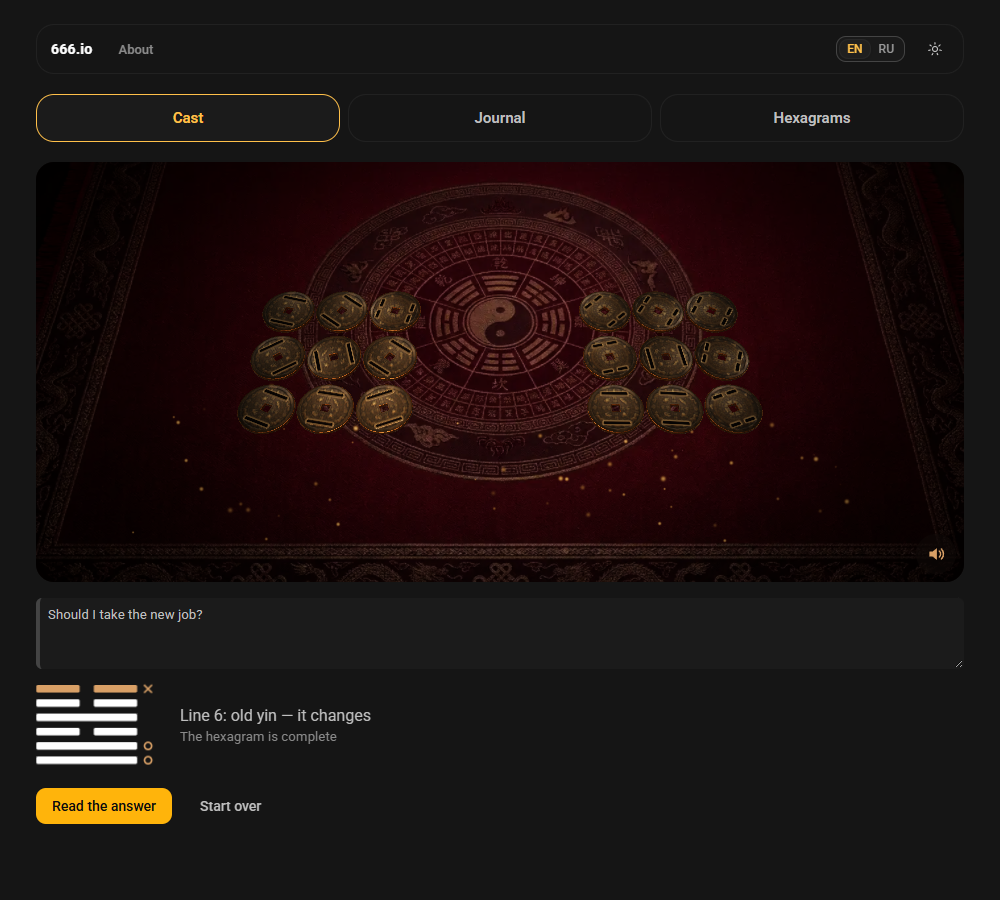
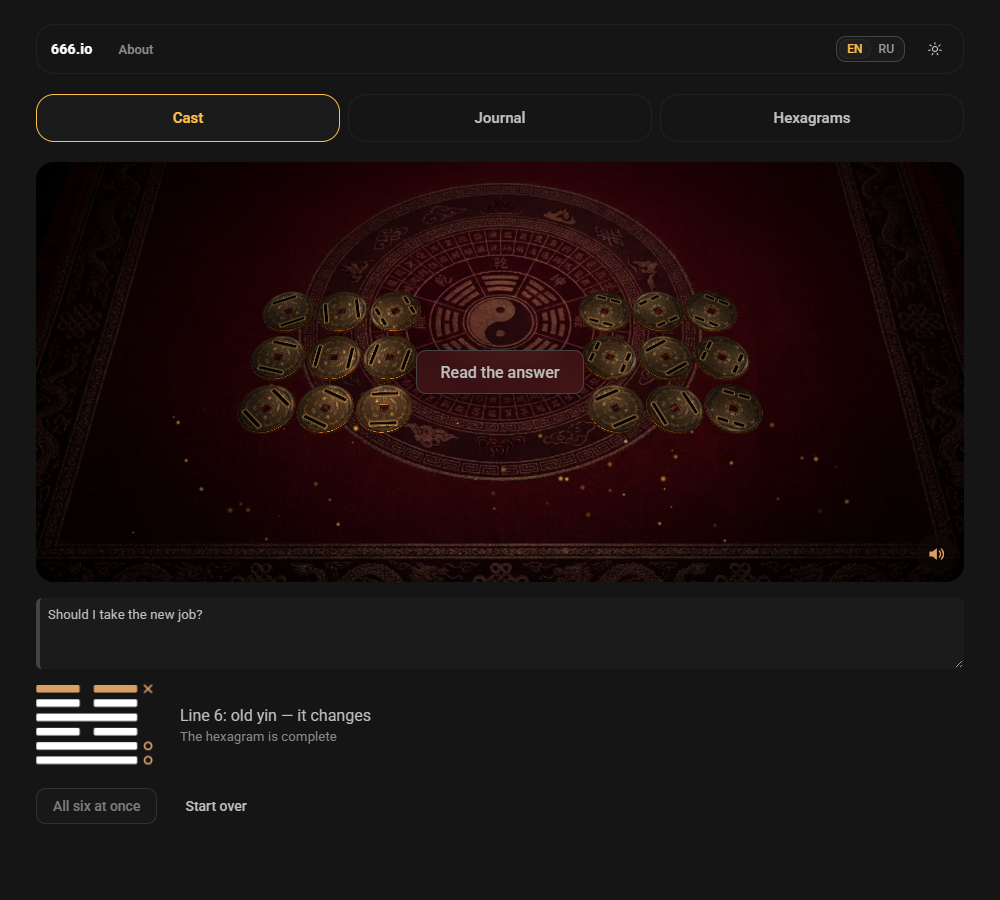
Read the answer: a glass button in the middle of the table; the other buttons are switched off instead of removed

diff --git a/src/app/components/CoinTable.vue b/src/app/components/CoinTable.vue
@@ -1,4 +1,5 @@
 <script setup lang="ts">
+import { TaoButton } from '@1337exp/taoui';
 import { onBeforeUnmount, onMounted, ref } from 'vue';
 import { t } from '../i18n';
 import { playFlip, playTaiko, prepareSound, setSound, soundOn } from '../sound';
@@ -10,9 +11,13 @@ import type { TableStage } from '../../scene/TableStage';
  * so the pages that do not need it (the library, the book) do not carry it.
  * Стол с тремя монетами. Сцена three.js грузится, когда компонент появляется, отдельным куском: страницы, которым она не нужна, её не несут.
  */
-const emit = defineEmits<{ activate: []; unavailable: [] }>();
-/** The words under the finger; with none, the hint is not shown. / Слова под пальцем; без них подсказки нет. */
-defineProps<{ hint?: string }>();
+const emit = defineEmits<{ activate: []; action: []; unavailable: [] }>();
+/**
+ * `hint`: the words under the finger; with none, the hint is not shown.
+ * `action`: the words of the button that appears in the middle of the table when the cast is done; with none, there is no button.
+ * `hint`: слова под пальцем; без них подсказки нет. `action`: слова кнопки, которая появляется посреди стола, когда бросок закончен; без них кнопки нет.
+ */
+defineProps<{ hint?: string; action?: string }>();
 
 const host = ref<HTMLElement | null>(null);
 let stage: TableStage | null = null;
@@ -71,6 +76,12 @@ defineExpose({
                 <path v-else d="M16 9l5 6M21 9l-5 6" fill="none" stroke="currentColor" stroke-width="1.8" stroke-linecap="round" />
             </svg>
         </button>
+        <!-- When the cast is done the main action stands in the middle of the table, on a pane of glass; the container lets presses through, the button takes its own. -->
+        <Transition name="action">
+            <div v-if="action" class="coin-table__action">
+                <TaoButton class="tao-surface-glass coin-table__read" variant="secondary" size="large" @click="emit('action')">{{ action }}</TaoButton>
+            </div>
+        </Transition>
         <!-- The hint lets every press through (pointer-events: none): the press lands on the table itself and throws the coins. -->
         <Transition name="hint">
             <div v-if="hint" class="coin-table__hint" aria-hidden="true">
@@ -127,6 +138,39 @@ defineExpose({
 .coin-table__sound:focus-visible {
     outline: 2px solid var(--tao-color-accent);
     outline-offset: 1px;
+}
+.coin-table__action {
+    position: absolute;
+    inset: 0;
+    z-index: 2;
+    display: grid;
+    place-items: center;
+    pointer-events: none;
+}
+.coin-table__read {
+    pointer-events: auto;
+    box-shadow: 0 6px 28px rgba(0, 0, 0, 0.55);
+}
+.action-enter-active {
+    transition:
+        opacity 0.9s ease 0.4s,
+        transform 0.9s cubic-bezier(0.2, 0.8, 0.2, 1) 0.4s; /* it waits a little: the wave of glow comes first */
+}
+.action-leave-active {
+    transition: opacity 0.25s ease;
+}
+.action-enter-from {
+    opacity: 0;
+    transform: translateY(10px) scale(0.96);
+}
+.action-leave-to {
+    opacity: 0;
+}
+@media (prefers-reduced-motion: reduce) {
+    .action-enter-active,
+    .action-leave-active {
+        transition: none;
+    }
 }
 .coin-table__hint {
     position: absolute;

diff --git a/src/app/components/CastScreen.vue b/src/app/components/CastScreen.vue
@@ -100,7 +100,7 @@ const status = computed(() => {
         <h2 id="cast-title" class="visually-hidden">{{ t('nav.cast') }}</h2>
 
         <div class="cast__stage">
-            <CoinTable v-if="!flat" ref="table" :hint="tapHint" @activate="activate" @unavailable="flat = true" />
+            <CoinTable v-if="!flat" ref="table" :hint="tapHint" :action="done ? t('cast.read') : undefined" @action="emit('read')" @activate="activate" @unavailable="flat = true" />
             <div v-else class="cast__flat" aria-live="polite">
                 <template v-if="last">
                     <CoinFace v-for="(side, index) in last.coins" :key="`${revealed}-${index}`" :side="side" :size="72" />
@@ -123,10 +123,11 @@ const status = computed(() => {
         </div>
 
         <div class="cast__actions">
-            <!-- the coins are thrown by a press on the table or the space bar, so there is no button for one throw -->
-            <TaoButton v-if="done" variant="primary" @click="emit('read')">{{ t('cast.read') }}</TaoButton>
-            <TaoButton v-else variant="secondary" :disabled="busy" @click="throwAll()">{{ t('cast.throwAll') }}</TaoButton>
-            <TaoButton v-if="throws.length" variant="ghost" tone="neutral" @click="void startOver()">{{ t('cast.reset') }}</TaoButton>
+            <!-- the coins are thrown by a press on the table or the space bar, so there is no button for one throw; «read» stands on the table.
+                 The buttons do not come and go (the page would jump), they are switched off. Without the table (no WebGL) «read» stands here. -->
+            <TaoButton v-if="flat && done" variant="primary" @click="emit('read')">{{ t('cast.read') }}</TaoButton>
+            <TaoButton variant="secondary" :disabled="busy || done" @click="throwAll()">{{ t('cast.throwAll') }}</TaoButton>
+            <TaoButton variant="ghost" tone="neutral" :disabled="!throws.length" @click="void startOver()">{{ t('cast.reset') }}</TaoButton>
         </div>
     </section>
 </template>
